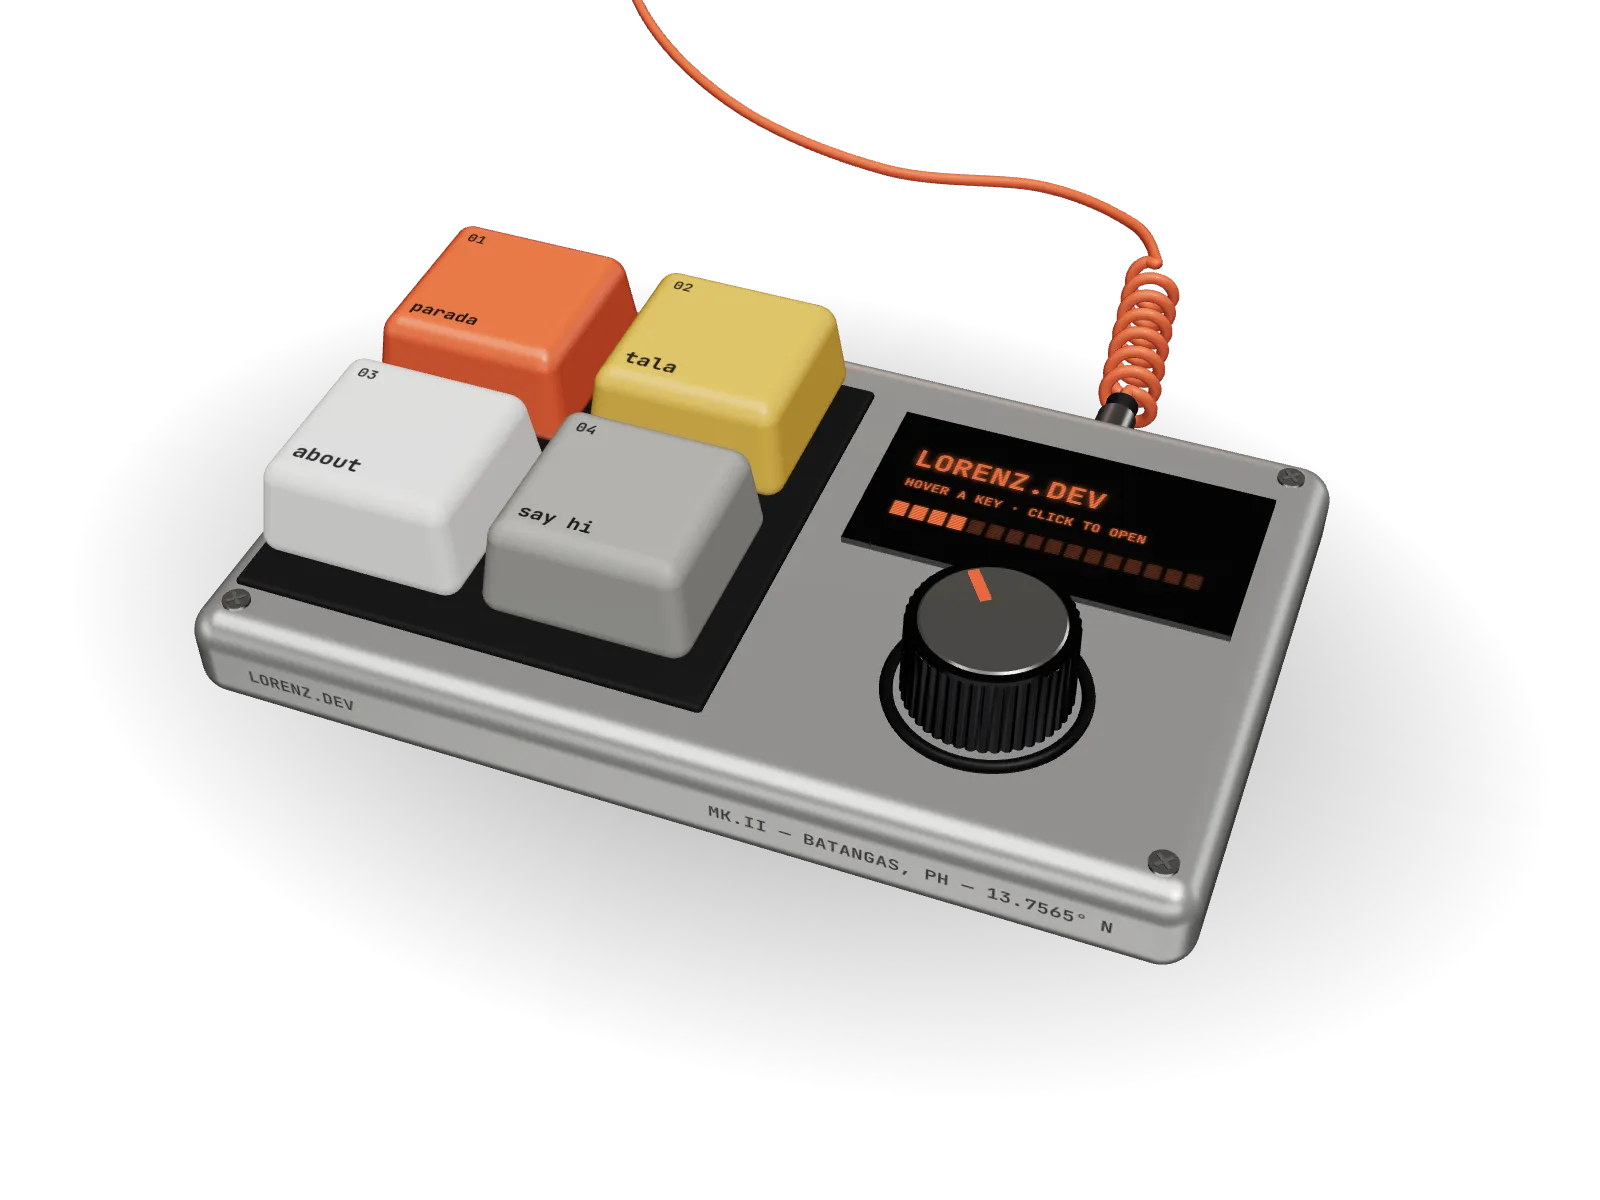
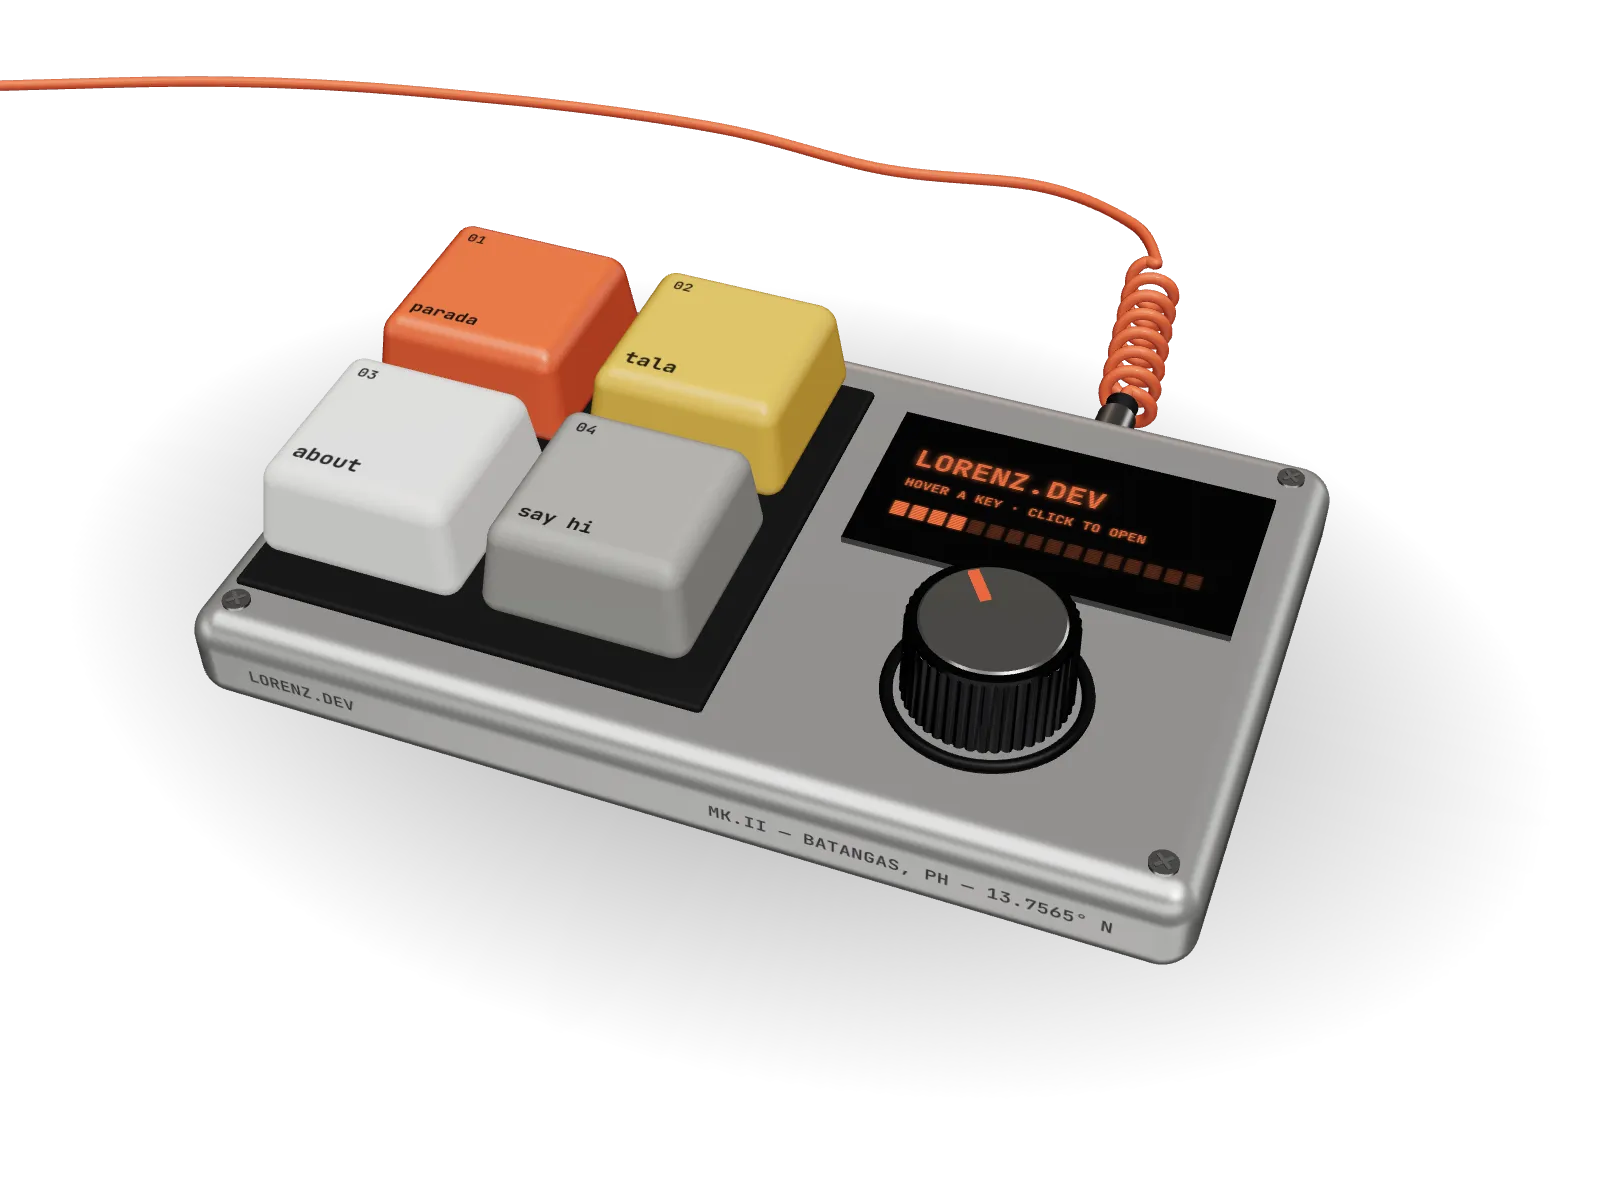
Run the macropad cable level, clear of the new headline
In the redesigned hero the headline sits directly above the pad, and the cable's
long tail climbed the screen into the "f" of "for". The pad rests turned by
MACROPAD_YAW, so "left along the back" read as "away", i.e. up. The tail now
bends back toward the camera by that amount, runs level and leaves through the
stage's feathered left edge. Poster and OG image re-rendered to match.

Claude-Session: https://claude.ai/code/session_01VSRQg2GFU7tFdubJHD8BbX

diff --git a/src/three/Macropad.tsx b/src/three/Macropad.tsx
@@ -256,17 +256,20 @@ function Cable() {
       );
     }
     const end = pts[pts.length - 1];
-    // then a lazy S-curve away behind the pad, running on well out of frame so it
-    // leaves through the stage's feathered edge instead of ending in mid-air
+    // then a lazy S-curve behind the pad, and on sideways out of frame, so it leaves
+    // through the stage's feathered edge instead of ending in mid-air. The tail runs
+    // level across the screen: the pad rests turned by MACROPAD_YAW, so "left along
+    // its back" would climb the screen (and into the headline above the pad) unless it
+    // bends back toward the camera by the same amount.
     pts.push(
       end.clone().add(new THREE.Vector3(-0.25, -0.1, -0.45)),
       end.clone().add(new THREE.Vector3(-0.9, -0.22, -0.8)),
       end.clone().add(new THREE.Vector3(-1.9, -0.3, -0.75)),
-      end.clone().add(new THREE.Vector3(-3.1, -0.36, -1.2)),
-      end.clone().add(new THREE.Vector3(-4.2, -0.4, -2.2)),
-      end.clone().add(new THREE.Vector3(-5.1, -0.44, -3.8)),
-      end.clone().add(new THREE.Vector3(-5.9, -0.46, -6.2)),
-      end.clone().add(new THREE.Vector3(-6.6, -0.48, -9.5))
+      end.clone().add(new THREE.Vector3(-3.1, -0.36, -0.9)),
+      end.clone().add(new THREE.Vector3(-4.6, -0.42, -0.8)),
+      end.clone().add(new THREE.Vector3(-6.4, -0.45, -0.4)),
+      end.clone().add(new THREE.Vector3(-9, -0.48, 0.6)),
+      end.clone().add(new THREE.Vector3(-14, -0.5, 2.3))
     );
     const curve = new THREE.CatmullRomCurve3(pts, false, "catmullrom", 0.5);
     return new THREE.TubeGeometry(curve, 1200, 0.034, 10, false);
